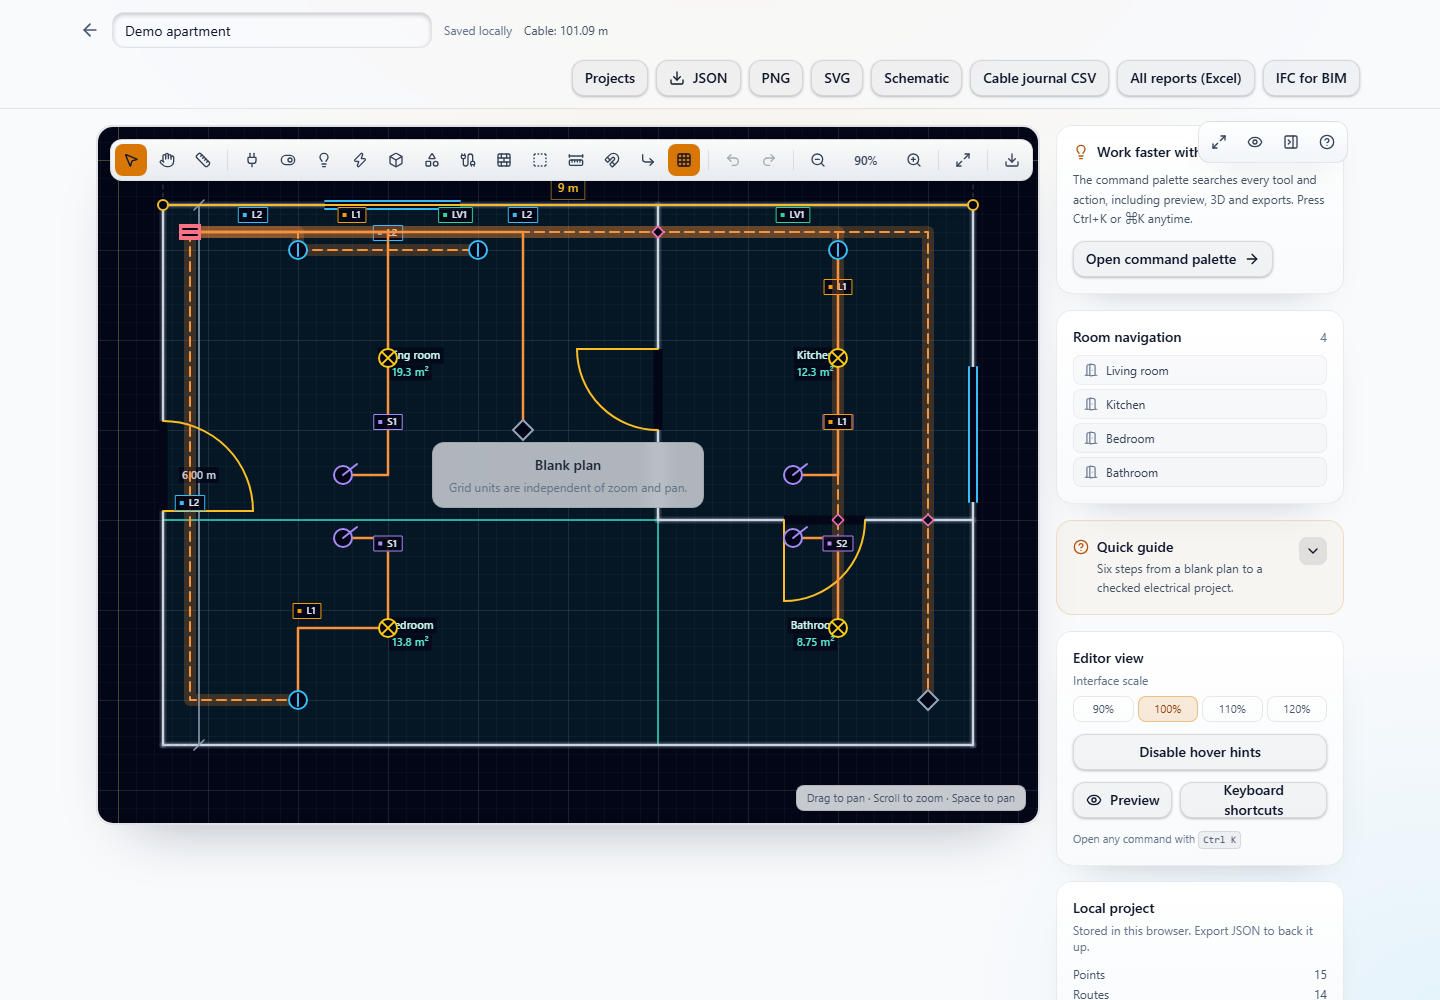
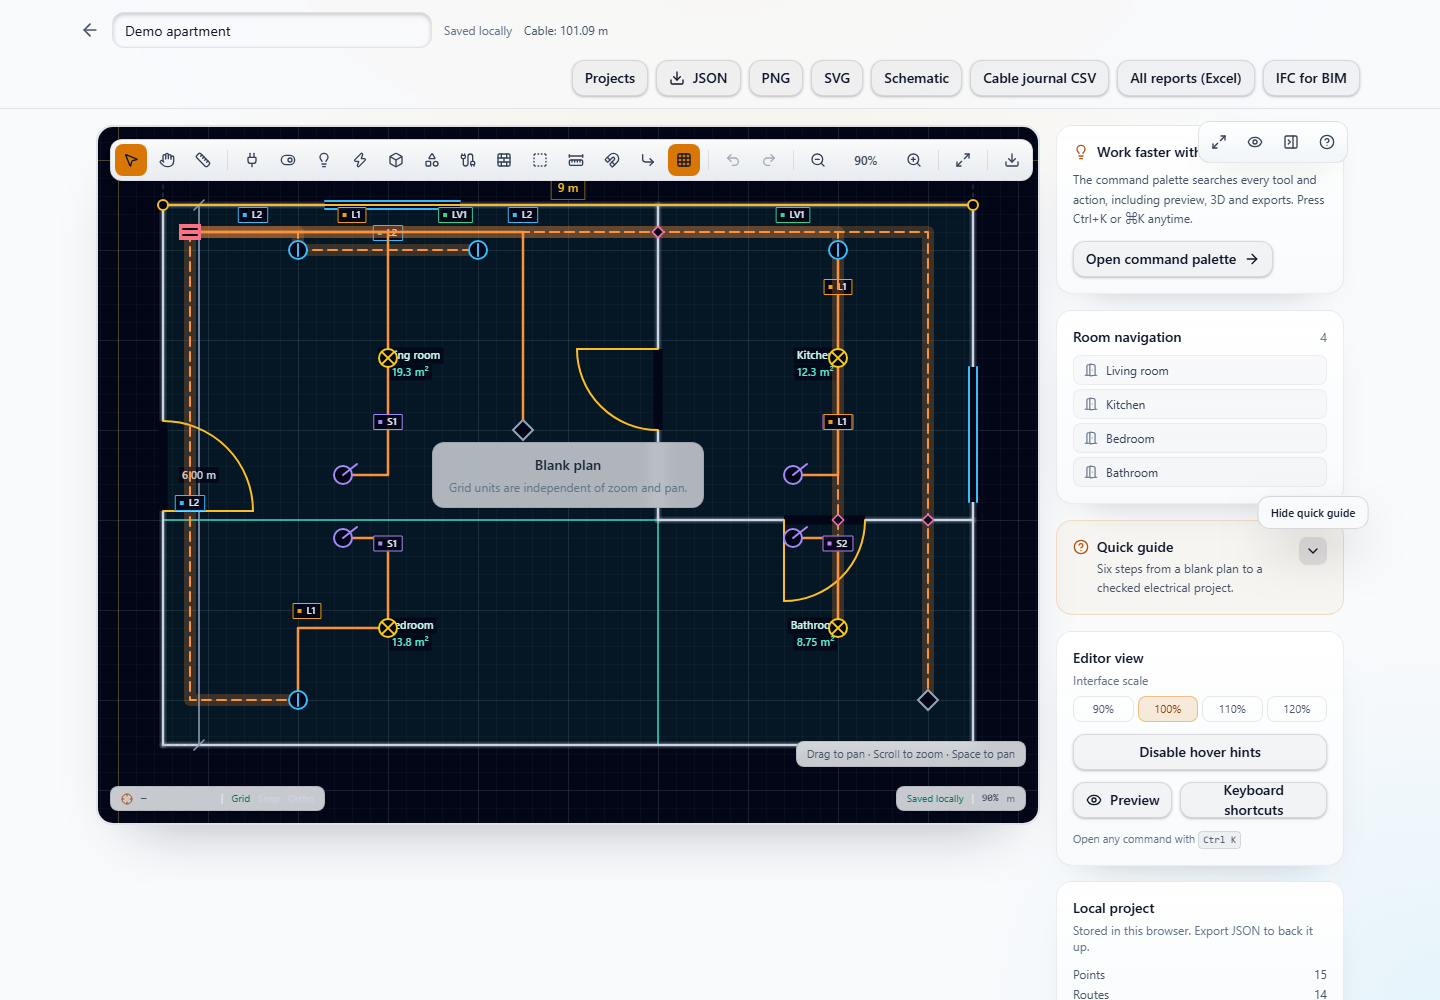
Refresh landing with editor preview and social metadata

Changed region(s): [[0.5312, 0.744, 0.7188, 0.837], [0.0625, 0.775, 0.25, 0.837], [0.875, 0.496, 0.9375, 0.527]]

diff --git a/apps/web/src/pages/landing-page.tsx b/apps/web/src/pages/landing-page.tsx
@@ -14,6 +14,7 @@ import { useAuth } from '@/features/auth/auth-context';
 import { useI18n } from '@/features/i18n/i18n-context';
 import { type CheckState, useSystemHealth } from '@/hooks/use-system-health';
 import { cn } from '@/lib/utils';
+import editorPreview from '@/assets/editor-preview.png';
 
 const statusKeys: Record<CheckState, string> = {
   checking: 'landing.status.checking',
@@ -154,7 +155,32 @@ export function LandingPage() {
               </p>
             </div>
 
-            <aside className="app-panel p-6 shadow-2xl shadow-black/40 backdrop-blur">
+            <aside className="space-y-4">
+              <figure className="app-panel overflow-hidden p-2 shadow-2xl shadow-black/40">
+                <div className="relative overflow-hidden rounded-xl border border-white/10">
+                  <img
+                    src={editorPreview}
+                    alt={t('landing.previewAlt')}
+                    className="aspect-[16/11] w-full object-cover object-top"
+                    loading="lazy"
+                  />
+                  <div className="pointer-events-none absolute inset-x-0 bottom-0 flex flex-wrap gap-1.5 bg-gradient-to-t from-slate-950/95 to-transparent p-3">
+                    {['2D · 3D', 'IFC4', 'XLSX', 'PDF'].map((badge) => (
+                      <span
+                        key={badge}
+                        className="rounded-full border border-white/15 bg-white/10 px-2 py-0.5 text-[10px] font-medium text-slate-100 backdrop-blur"
+                      >
+                        {badge}
+                      </span>
+                    ))}
+                  </div>
+                </div>
+                <figcaption className="px-2 py-2 text-[11px] leading-relaxed text-slate-500">
+                  {t('landing.previewHint')}
+                </figcaption>
+              </figure>
+
+              <div className="app-panel p-6 shadow-2xl shadow-black/40 backdrop-blur">
               <div className="flex items-start justify-between gap-4">
                 <div>
                   <h2 className="text-sm font-semibold text-white">
@@ -230,6 +256,7 @@ export function LandingPage() {
                   </p>
                 </div>
               ) : null}
+              </div>
             </aside>
           </section>
 
@@ -250,6 +277,43 @@ export function LandingPage() {
                 </p>
               </article>
             ))}
+          </section>
+
+          <section className="border-t border-white/10 py-14">
+            <div className="max-w-2xl">
+              <p className="text-xs font-medium tracking-widest text-amber-300/80 uppercase">
+                {t('landing.workflow.eyebrow')}
+              </p>
+              <h2 className="mt-2 text-3xl font-semibold tracking-tight text-white">
+                {t('landing.workflow.title')}
+              </h2>
+              <p className="mt-3 text-sm leading-relaxed text-slate-400">
+                {t('landing.workflow.hint')}
+              </p>
+            </div>
+            <ol className="mt-6 grid gap-3 md:grid-cols-2 xl:grid-cols-4">
+              {[
+                ['landing.workflow.plan', '01'],
+                ['landing.workflow.circuits', '02'],
+                ['landing.workflow.estimate', '03'],
+                ['landing.workflow.docs', '04'],
+              ].map(([key, number]) => (
+                <li
+                  key={key}
+                  className="app-panel p-5"
+                >
+                  <span className="font-mono text-xs text-amber-300">
+                    {number}
+                  </span>
+                  <h3 className="mt-2 text-sm font-semibold text-white">
+                    {t(`${key}.title`)}
+                  </h3>
+                  <p className="mt-1.5 text-xs leading-relaxed text-slate-400">
+                    {t(`${key}.body`)}
+                  </p>
+                </li>
+              ))}
+            </ol>
           </section>
 
           <section

diff --git a/apps/web/src/features/i18n/i18n.ts b/apps/web/src/features/i18n/i18n.ts
@@ -359,6 +359,26 @@ const en: Dictionary = {
     'The API is not reachable. Start the development stack with pnpm dev.',
   'landing.direction': 'Product direction',
   'landing.cap.read': 'Read the plan',
+  'landing.previewAlt': 'DrawMyPlace editor with a demo apartment plan',
+  'landing.previewHint':
+    'Walls, rooms, circuits, cable routes and devices in one editor — with reports and BIM export built in.',
+  'landing.workflow.eyebrow': 'How it works',
+  'landing.workflow.title': 'From a plan to a documented project',
+  'landing.workflow.hint':
+    'Four steps cover the normal workflow: draw, electrify, price and document.',
+  'landing.workflow.plan.title': 'Read and draw',
+  'landing.workflow.plan.body':
+    'Upload a PDF or image, calibrate it, then trace walls, openings and rooms.',
+  'landing.workflow.circuits.title': 'Build circuits',
+  'landing.workflow.circuits.body':
+    'Place devices, link them with cable routes and assign circuits; loads and protection update live.',
+  'landing.workflow.estimate.title': 'Price the work',
+  'landing.workflow.estimate.body':
+    'Live takeoff, material prices and estimate versions turn the drawing into a priced specification.',
+  'landing.workflow.docs.title': 'Document and export',
+  'landing.workflow.docs.body':
+    'Panel schedules, reports, single-line diagrams, IFC and PDF keep the project ready for handover.',
+
   'landing.cap.readHint':
     'Start from a blank canvas or calibrate an uploaded JPG, PNG, or PDF against a known distance.',
   'landing.cap.draw': 'Draw the electrics',
@@ -1771,6 +1791,26 @@ const ua: Dictionary = {
     'API недоступний. Запустіть середовище розробки через pnpm dev.',
   'landing.direction': 'Напрям продукту',
   'landing.cap.read': 'Прочитати план',
+  'landing.previewAlt': 'Редактор DrawMyPlace із демонстраційним планом квартири',
+  'landing.previewHint':
+    'Стіни, кімнати, кола, кабельні траси й пристрої в одному редакторі — зі звітами та BIM-експортом.',
+  'landing.workflow.eyebrow': 'Як це працює',
+  'landing.workflow.title': 'Від плану до задокументованого проєкту',
+  'landing.workflow.hint':
+    'Чотири кроки охоплюють звичайний процес: накреслити, електрифікувати, оцінити й задокументувати.',
+  'landing.workflow.plan.title': 'Прочитати й накреслити',
+  'landing.workflow.plan.body':
+    'Завантажте PDF або зображення, відкалібруйте й обведіть стіни, отвори та кімнати.',
+  'landing.workflow.circuits.title': 'Створити кола',
+  'landing.workflow.circuits.body':
+    'Розмістіть пристрої, з’єднайте їх трасами й призначте кола — навантаження та захист оновлюються наживо.',
+  'landing.workflow.estimate.title': 'Оцінити роботи',
+  'landing.workflow.estimate.body':
+    'Живий розрахунок, ціни матеріалів і версії кошторису перетворюють креслення на специфікацію з цінами.',
+  'landing.workflow.docs.title': 'Задокументувати й експортувати',
+  'landing.workflow.docs.body':
+    'Відомості щитів, звіти, однолінійна схема, IFC і PDF готують проєкт до передачі.',
+
   'landing.cap.readHint':
     'Почніть із порожнього полотна або відкалібруйте завантажений JPG, PNG чи PDF за відомою відстанню.',
   'landing.cap.draw': 'Намалювати електрику',

diff --git a/apps/web/src/features/i18n/ru.ts b/apps/web/src/features/i18n/ru.ts
@@ -343,6 +343,26 @@ export const ru: Dictionary = {
     'API недоступен. Запустите среду разработки через pnpm dev.',
   'landing.direction': 'Направление продукта',
   'landing.cap.read': 'Прочитать план',
+  'landing.previewAlt': 'Редактор DrawMyPlace с демонстрационным планом квартиры',
+  'landing.previewHint':
+    'Стены, комнаты, цепи, кабельные трассы и устройства в одном редакторе — с отчётами и BIM-экспортом.',
+  'landing.workflow.eyebrow': 'Как это работает',
+  'landing.workflow.title': 'От плана к задокументированному проекту',
+  'landing.workflow.hint':
+    'Четыре шага охватывают обычный процесс: начертить, электрифицировать, оценить и задокументировать.',
+  'landing.workflow.plan.title': 'Прочитать и начертить',
+  'landing.workflow.plan.body':
+    'Загрузите PDF или изображение, откалибруйте и обведите стены, проёмы и комнаты.',
+  'landing.workflow.circuits.title': 'Создать цепи',
+  'landing.workflow.circuits.body':
+    'Разместите устройства, соедините их трассами и назначьте цепи — нагрузки и защита обновляются наживо.',
+  'landing.workflow.estimate.title': 'Оценить работы',
+  'landing.workflow.estimate.body':
+    'Живой расчёт, цены материалов и версии сметы превращают чертёж в спецификацию с ценами.',
+  'landing.workflow.docs.title': 'Задокументировать и экспортировать',
+  'landing.workflow.docs.body':
+    'Ведомости щитов, отчёты, однолинейная схема, IFC и PDF готовят проект к передаче.',
+
   'landing.cap.readHint':
     'Начните с пустого полотна или откалибруйте загруженный JPG, PNG или PDF по известному расстоянию.',
   'landing.cap.draw': 'Нарисовать электрику',

diff --git a/apps/web/index.html b/apps/web/index.html
@@ -5,9 +5,27 @@
     <meta name="viewport" content="width=device-width, initial-scale=1.0" />
     <meta
       name="description"
-      content="DrawMyPlace — plan electrical installations, cable routes, and material estimates."
+      content="DrawMyPlace — draw electrical plans, cable routes, panel schedules and material estimates, then export reports and IFC."
     />
-    <title>DrawMyPlace</title>
+    <meta name="theme-color" content="#020617" media="(prefers-color-scheme: dark)" />
+    <meta name="theme-color" content="#f8fafc" media="(prefers-color-scheme: light)" />
+    <link rel="icon" href="/favicon.svg" type="image/svg+xml" />
+    <meta property="og:type" content="website" />
+    <meta property="og:site_name" content="DrawMyPlace" />
+    <meta property="og:title" content="DrawMyPlace — electrical plans that add up" />
+    <meta
+      property="og:description"
+      content="Plan electrical installations, routes, protection and estimates in one editor, with reports and IFC export."
+    />
+    <meta property="og:image" content="/social-preview.png" />
+    <meta name="twitter:card" content="summary_large_image" />
+    <meta name="twitter:title" content="DrawMyPlace — electrical plans that add up" />
+    <meta
+      name="twitter:description"
+      content="Plan electrical installations, routes, protection and estimates in one editor, with reports and IFC export."
+    />
+    <meta name="twitter:image" content="/social-preview.png" />
+    <title>DrawMyPlace — electrical plans that add up</title>
   </head>
   <body>
     <a

diff --git a/README.md b/README.md
@@ -23,6 +23,7 @@ Verified in this repository:
 ## Documentation
 
 - [Editor guide](docs/editor-guide.md) — drawing, validation, device library, reports, IFC and onboarding.
+- Landing and editor screenshots live in `docs/screenshots/`; regenerate them with `node scripts/capture-screenshots.mjs`.
 - Design system: `@drawmyplace/ui/tokens.css`; the live catalogue is at `/design` in development or with `VITE_ENABLE_DESIGN=true`.
 
 ## Requirements
